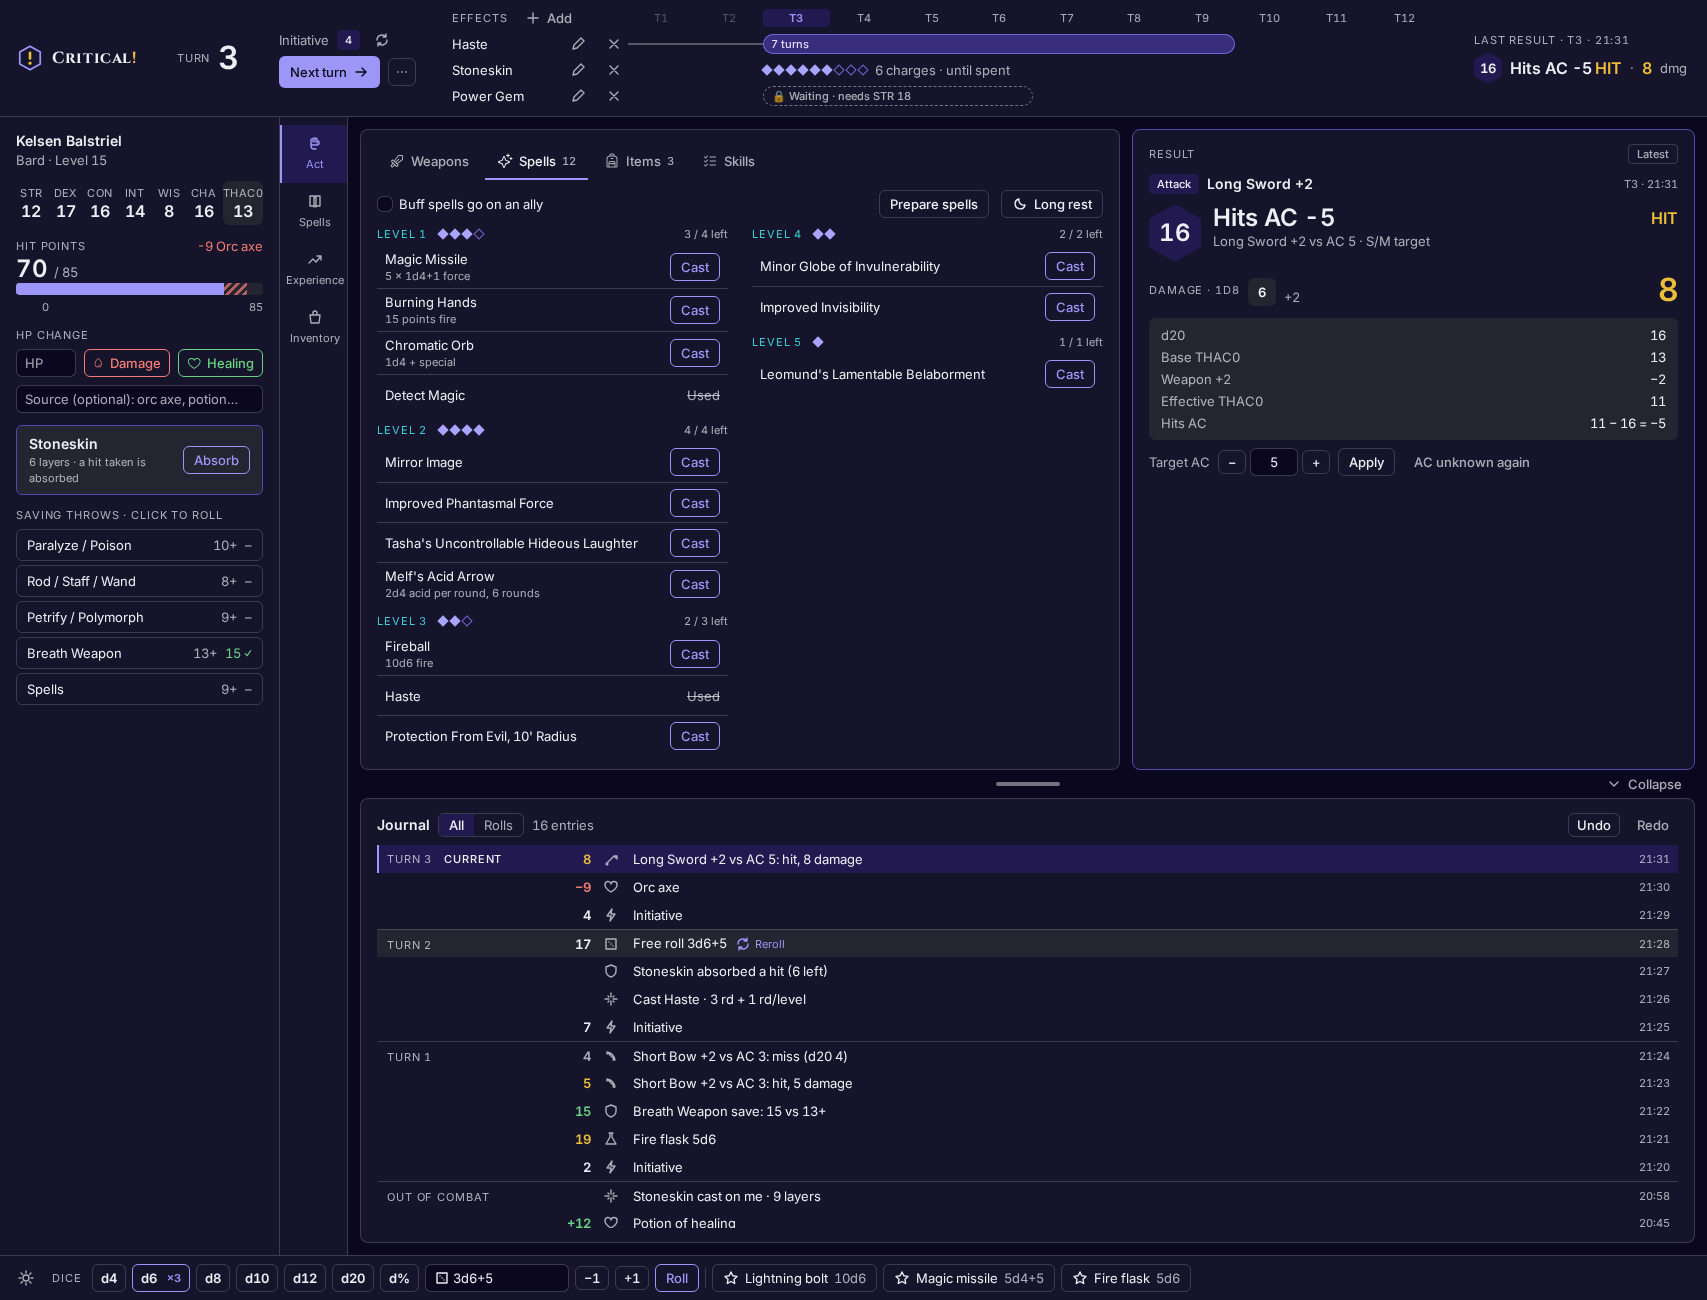
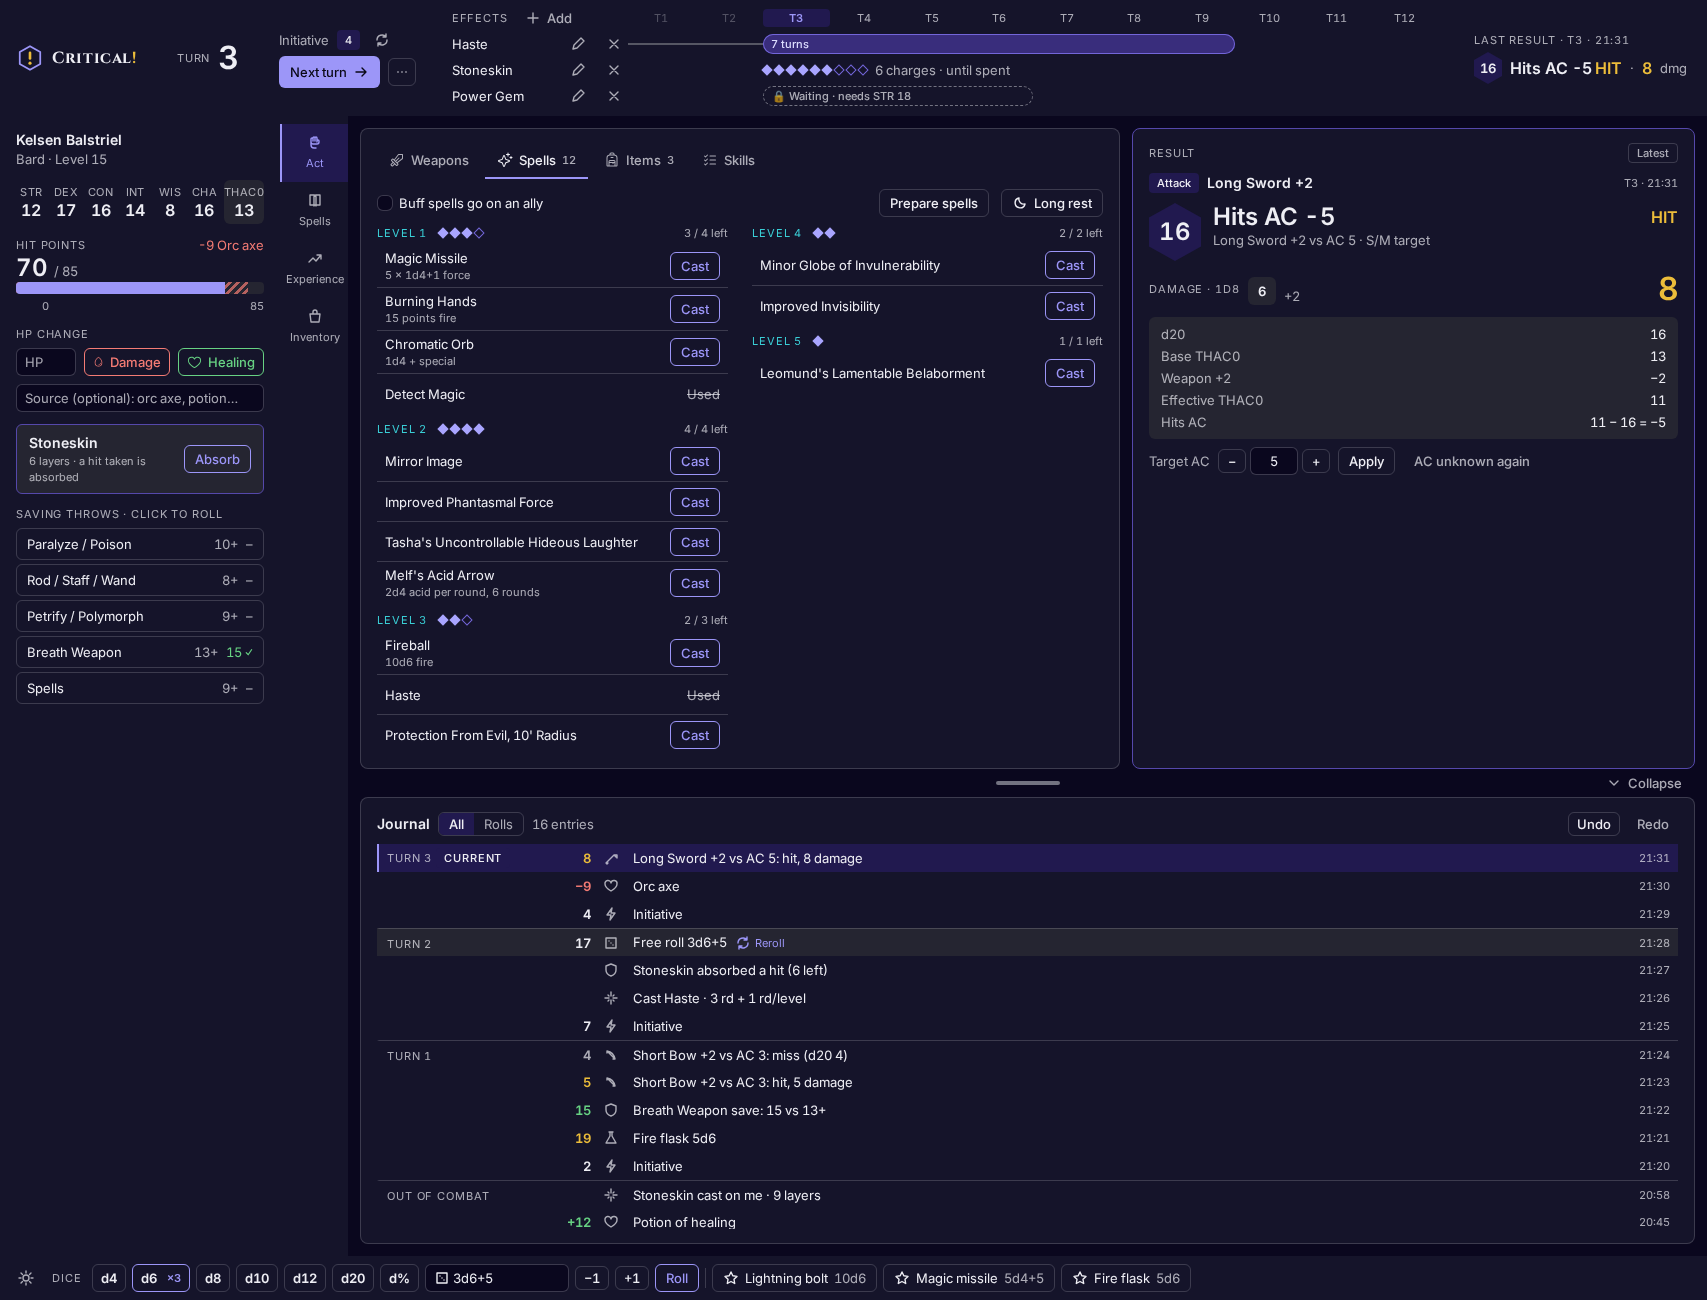
docs(design): round 4c: B zones without rules: no lines around the header, character column, rail or footer; the surfaces set them apart (critical-uwtx.2)

diff --git a/docs/design/ui-directions/b-character-left/direction.css b/docs/design/ui-directions/b-character-left/direction.css
@@ -1,6 +1,6 @@
-/* Direction B: one header band without separators (brand, turn, initiative, the effects timeline, the last result docked right), the character on the left edge with HP, the rail beside it, A3's journal below with a handle, the dice as a footer. */
+/* Direction B: zones set apart by their surface, no rules between them. One header band (brand, turn, initiative, the effects timeline, the last result docked right), the character on the left edge with HP, the rail beside it, A3's journal below with a handle, the dice as a footer. */
 .app { height: 100vh; display: flex; flex-direction: column; }
-.vitals { display: grid; grid-template-columns: auto auto auto minmax(0, 1fr) auto; align-items: stretch; border-bottom: 1px solid var(--border); background: var(--surface); }
+.vitals { display: grid; grid-template-columns: auto auto auto minmax(0, 1fr) auto; align-items: stretch; background: var(--surface); }
 .vitals > div { padding: .5rem 1.25rem; min-width: 0; display: flex; align-items: center; gap: .75rem; }
 .vitals > div:first-child { padding-left: 1rem; }
 @media (max-width: 1500px) { .vitals > div { padding: .5rem .875rem; } .v-brand .wordmark { display: none; } }
@@ -20,14 +20,14 @@
 .tline { height: 2px; background: var(--neu-700); align-self: center; }
 .pill.fade { mask-image: linear-gradient(90deg, #000 70%, transparent); }
 .below { flex: 1; display: flex; min-height: 0; }
-.moi { width: 17.5rem; flex-shrink: 0; padding: .875rem 1rem; border-right: 1px solid var(--border); background: var(--surface); overflow-y: auto; }
-.rail { width: 4.25rem; flex-shrink: 0; display: flex; flex-direction: column; align-items: stretch; padding: .5rem 0; border-right: 1px solid var(--border); background: var(--surface); }
+.moi { width: 17.5rem; flex-shrink: 0; padding: .875rem 1rem; background: var(--surface); overflow-y: auto; }
+.rail { width: 4.25rem; flex-shrink: 0; display: flex; flex-direction: column; align-items: stretch; padding: .5rem 0; background: var(--surface); }
 .rail-item { display: flex; flex-direction: column; align-items: center; gap: .25rem; padding: .625rem 0; font-size: .6875rem; color: var(--ink-muted); border-left: 2px solid transparent; }
 .rail-item.on { color: var(--tint); border-left-color: var(--tint); background: var(--amb-900); }
 .saves-btns { display: grid; gap: .25rem; }
 .save-btn { display: flex; align-items: center; gap: .5rem; height: 2rem; padding: 0 .625rem; border: 1px solid var(--border); border-radius: .375rem; }
 .stage { flex: 1; min-width: 0; min-height: 0; display: grid; gap: .75rem; padding: .75rem; }
-.dice-foot { border-top: 1px solid var(--border); background: var(--surface); padding: .5rem .75rem; }
+.dice-foot { background: var(--surface); padding: .5rem .75rem; }
 /* Act: a column; the "now" band takes its content's height up to 60 % of the stage, the journal at least 14rem and the rest. */
 .stage-act { display: flex; flex-direction: column; gap: 0; }
 .now-band { flex: 0 1 auto; max-height: 60%; display: grid; grid-template-columns: minmax(28rem, 1.35fr) minmax(24rem, 1fr); gap: .75rem; min-height: 0; }
